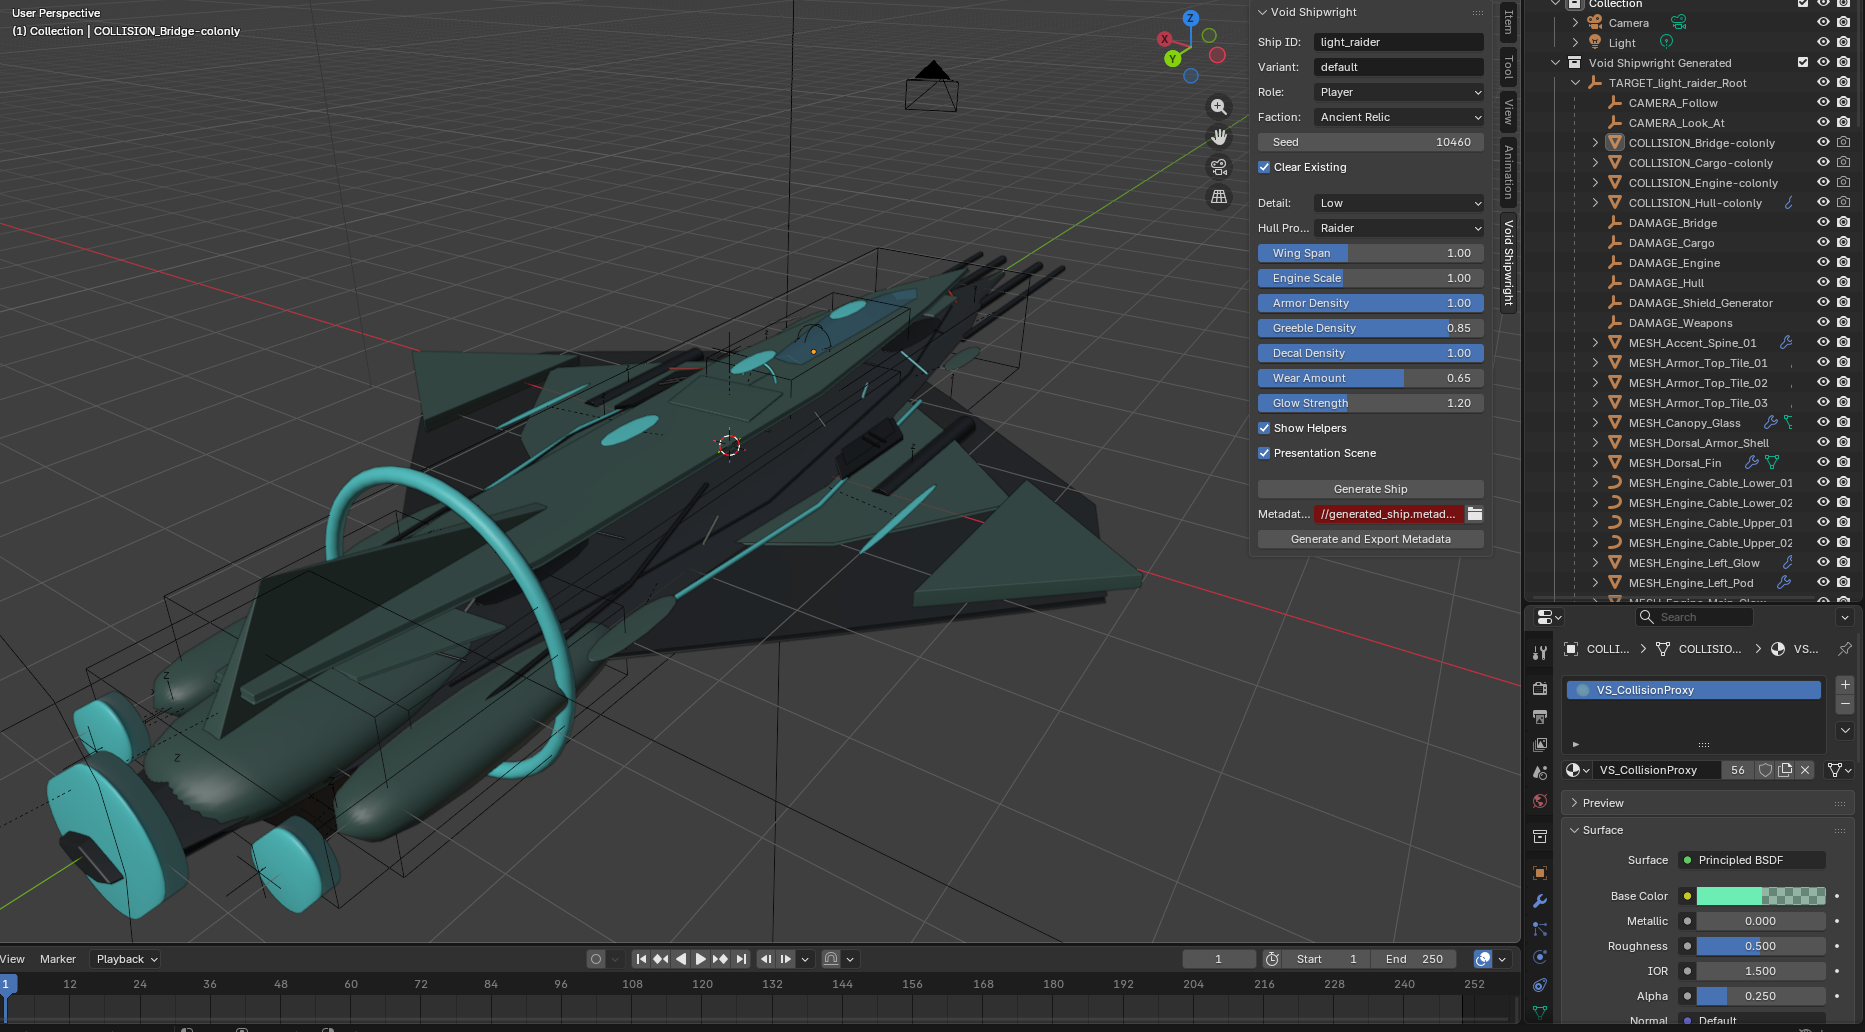
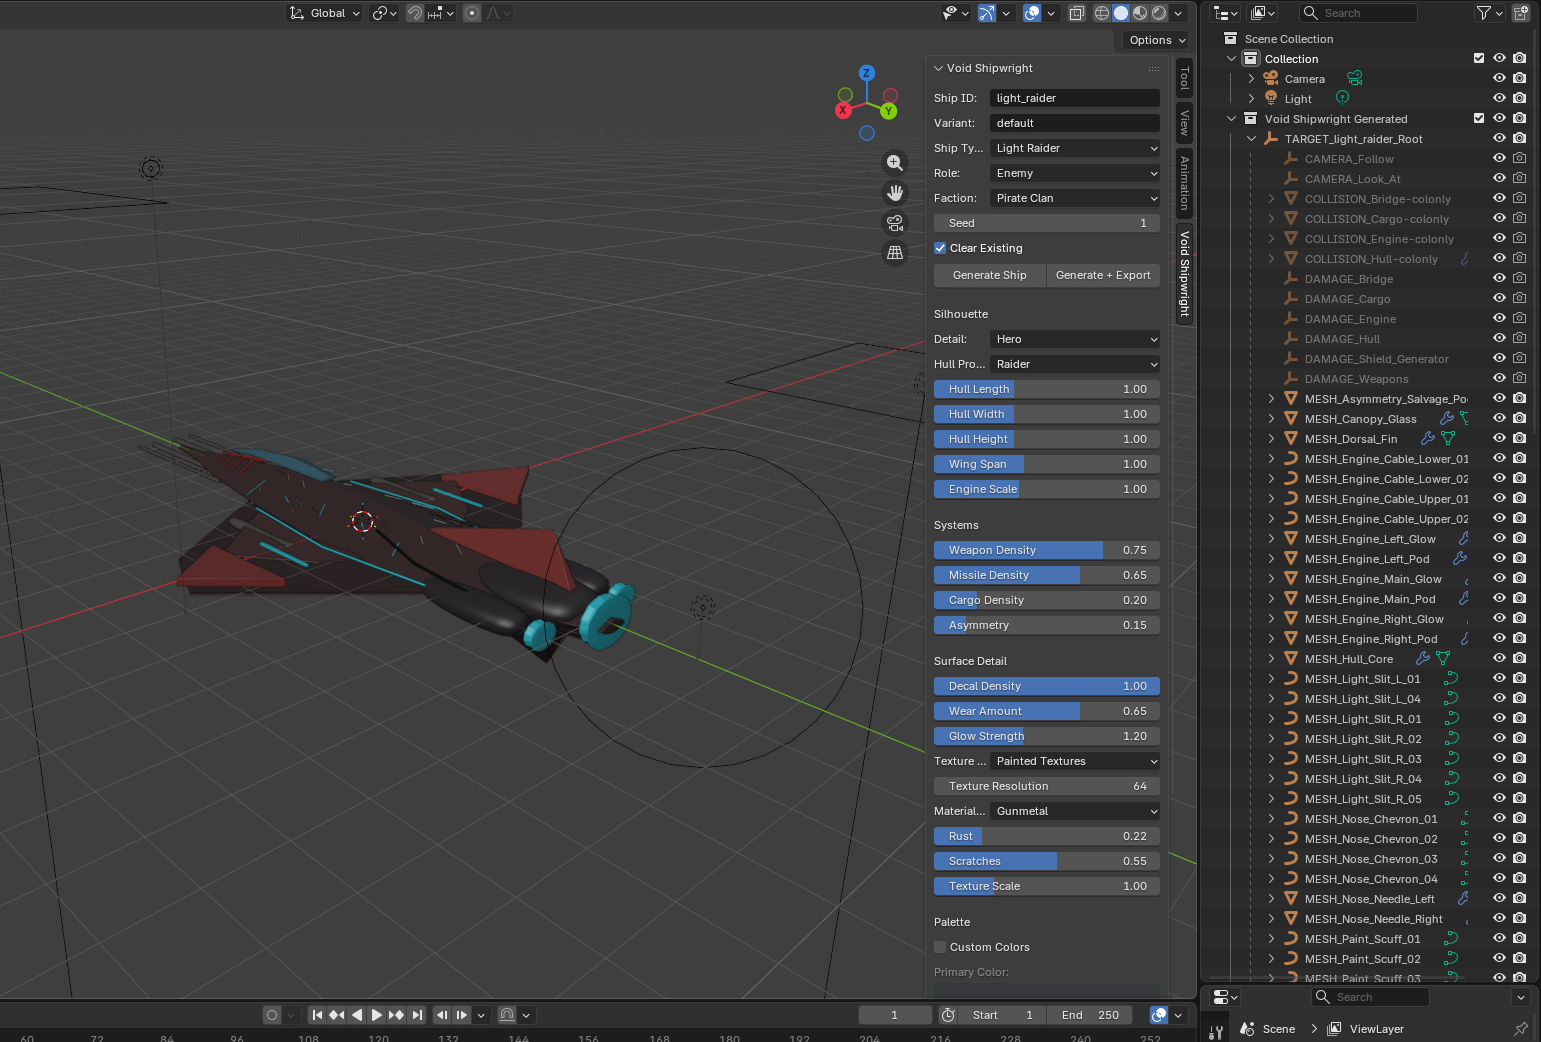
bigger collisions

diff --git a/void_shipwright/metadata.py b/void_shipwright/metadata.py
@@ -24,6 +24,49 @@ def _vector3(values: Iterable[float]) -> list[float]:
     return [_round_float(value) for value in values]
 
 
+def _raw_vector3(values: Any) -> list[float] | None:
+    if values is None:
+        return None
+
+    try:
+        vector = list(values)
+    except TypeError:
+        return None
+
+    if len(vector) < 3:
+        return None
+
+    try:
+        return [float(vector[0]), float(vector[1]), float(vector[2])]
+    except (TypeError, ValueError):
+        return None
+
+
+def _object_box_size(obj: Any) -> list[float]:
+    scale = _raw_vector3(getattr(obj, "scale", None)) or [1.0, 1.0, 1.0]
+    bounds = getattr(obj, "bound_box", None)
+    if bounds is not None:
+        try:
+            corners = [tuple(corner) for corner in bounds]
+        except TypeError:
+            corners = []
+
+        if corners:
+            local_size = [
+                max(corner[index] for corner in corners) - min(corner[index] for corner in corners)
+                for index in range(3)
+            ]
+            size = [local_size[index] * abs(scale[index]) for index in range(3)]
+            if any(value > 0.0001 for value in size):
+                return _vector3(size)
+
+    dimensions = _raw_vector3(getattr(obj, "dimensions", None))
+    if dimensions is not None and any(abs(value) > 0.0001 for value in dimensions):
+        return _vector3(abs(value) for value in dimensions)
+
+    return _vector3(abs(value) * 2.0 for value in scale)
+
+
 def _socket_type(name: str) -> str:
     if name.startswith("SOCKET_Weapon_"):
         return "weapon"
@@ -78,6 +121,7 @@ def collect_scene_objects(objects: Iterable[Any]) -> dict[str, list[dict[str, An
             sockets.append(entry)
         elif obj.name.startswith("COLLISION_"):
             entry["shape"] = "box"
+            entry["size"] = _object_box_size(obj)
             entry["disabled_by_default"] = False
             collisions.append(entry)
         elif obj.name.startswith("DAMAGE_"):

diff --git a/docs/codex/ship_metadata_schema.md b/docs/codex/ship_metadata_schema.md
@@ -18,7 +18,7 @@ The canonical JSON schema is `schemas/ship_metadata.schema.json`. Example output
 
 - `meshes`: Visual mesh objects.
 - `sockets`: Gameplay attach points for weapons, engines, cameras, targeting, loot, and boarding.
-- `collision_proxies`: Box collision source objects.
+- `collision_proxies`: Box collision source objects. Collision entries include `size` as the full box dimensions Godot should assign to `BoxShape3D.size`; `scale` remains the Blender object transform scale.
 - `damage_zones`: Damage routing markers.
 - `vfx_markers`: VFX attach points.
 - `camera_markers`: Camera rig helper points.
